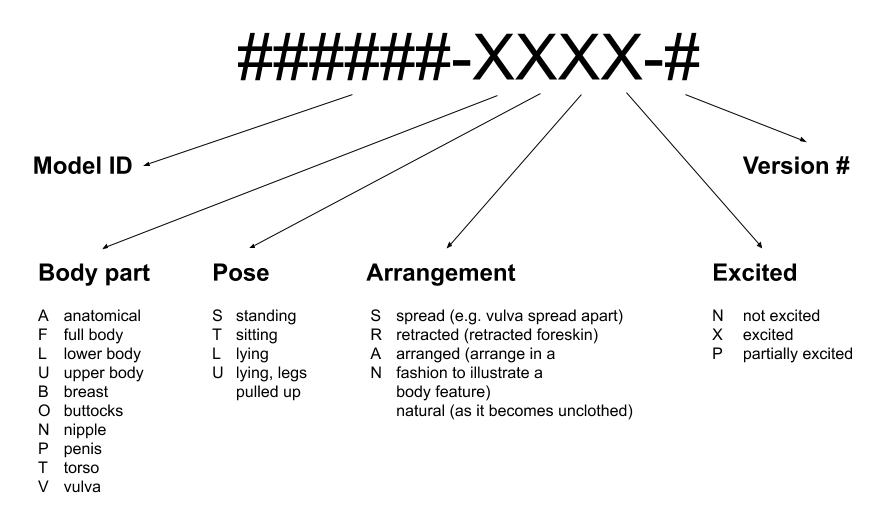
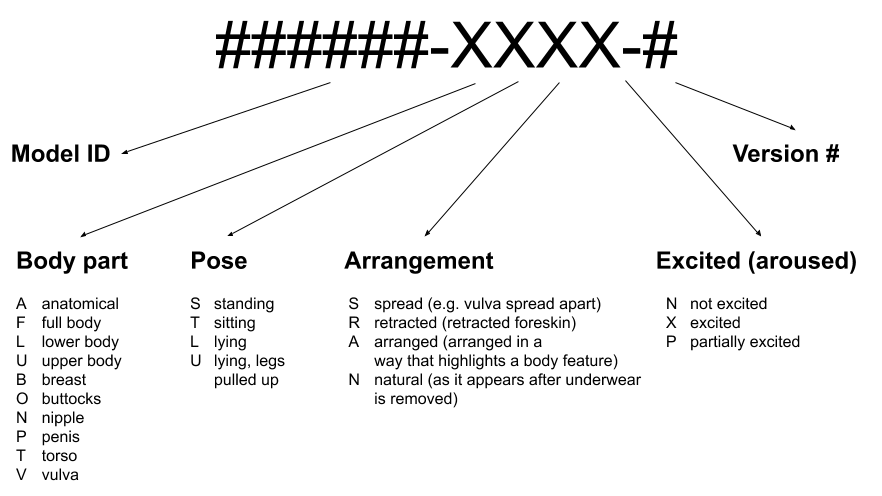
Fix english on model decoder page

diff --git a/template/docs/model-codes.html b/template/docs/model-codes.html
@@ -5,8 +5,8 @@
         <h2>Model codes explained</h2>
 
         <p>
-           We've taken great care in keeping track of the right data, keeping the needed data private to
-           protect the identity of our models and making this data useful.
+           We've taken great care to keep track of the right data, keep the necessary data private to
+           protect the identity of our models and make the data useful.
         </p>
 
         <h4>Model codes</h4>
@@ -14,8 +14,11 @@
         <p>
           All of our models are carefully coded with the URL of this site and a model code that you can
           decode using the diagram below. The code contains the ID number of the model, the body part shown,
-          the pose the person was in at the time of the scan, if they were arranged in some form, if
-          they were excited or not and finally the version of this this model:
+          and the pose the person was in at the time of the scan. It also shows if the model was arranged
+          (e.g. arms raised as opposed hanging naturally) and if they were excited (aroused) or not. 
+          The final number is the optional version of this model; if it is not shown by default 
+          it means the version number is 1. Some models may have repeated scans over time: A pregnant
+          woman at week 19 could be version 1 and the same woman at pregnancy week 40 could be version 2.
         </p>
 
         <p>
@@ -48,29 +51,29 @@
                   to understand, arrangement and excited need some explanation.
                </p>
                <p>
-                  <i>Arrangement</i> concerns wether the model has been arranged in any way. Vulva models are a great example, as 
+                  <i>Arrangement</i> concerns whether the model has been arranged in any way. Vulva models are a great example, as 
                   some vulvas emerge from  underwear they may be folded or their shape influenced by being constrained 
-                  in underwear. Not arranging a vulva in any way is considered <i>natural</i>. If a vulva is arranged, 
+                  in underwear. Not arranging a vulva in any way is considered <i>natural</i>. If a vulva has been positioned, 
                   perhaps to be symmetrical, it is considered <i>arranged</i>. Compare this <a href="/model/757038-VUNN">naturally 
-                  arranged vulva</a> with the same <a href="/model/757038-VLSN">vulva that was arranged to be spread apart</a>. 
+                  presented vulva</a> with the same <a href="/model/757038-VLSN">vulva that was arranged to be spread apart</a>. 
                </p>
                <p>
-                  For some models, like penises, a model may also have the foreskin retracted, in which case the arrangement is 
+                  For models of penises, a model may also have the foreskin retracted, in which case the arrangement is 
                   <i>retracted</i>. Compare this <a href="/model/200102-PLAN">not-retracted penis</a> to this 
                   <a href="/model/554268-PLRN">retracted penis</a>.
                </p>
                <p>
-                  <i>Excited</i> takes into account wether the model is sexually excited at the time the pictures were taken.
-                  This data attribute is clearly important for a penis model, but it seems less important for vulva models.
-                  However, even vulvas change shape when they are excited, as you can see in this <a href="/model/426060-VLNP">
-                  compund vulva model</a>.
+                  <i>Excited</i> denotes if the model is sexually excited at the time the pictures were taken.
+                  This data attribute is onvious for a penis model, but it seems less obvious for vulva models.
+                  However, vulvas also change shape when they are excited, as you can see in this <a href="/model/426060-VLNP">
+                  compound vulva model</a>.
                </p>
             </td>
           </tr>
           <tr>
             <td class="text-center"><b>1</b></td>
             <td>
-              The optional -1 on this model identifies the version of this model. Most of our models will only 
+              The optional -1 on a model identifies the version of this model. Most of our models will only 
               ever have one version, but this pregnant female already has a few so you can see how her body
               changes during the course of her pregancy: 
               <a href="/model/591522-FSAN">week 19</a>,
